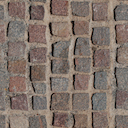
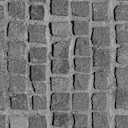
TextureLoader fixed and added

diff --git a/src/component/game/testWorld.js b/src/component/game/testWorld.js
@@ -2,21 +2,23 @@ import * as THREE from 'three';
 import Player from './entities/Player';
 import Box from './entities/Box';
 
-const MARINE_URL = '/assets/marine/marine_anims_core.json';
-
 function world(callback, assets) {
-	let texture = new THREE.TextureLoader().load('/assets/box/wood_texture.jpg');
-	generateBoundary(9).forEach((point) => {
-		let box = new Box(texture);
-		box.setPosition(point);
-		callback(box);
-	})
-	const box1 = new Box(texture);
-	box1.setPosition(new THREE.Vector3(0, -1, 0));
-	const box2 = new Box(texture);
-	box2.setPosition(new THREE.Vector3(0, 1, 0));
-	callback(box1);
-	callback(box2);
+	assets.getTexture('Wood', texture => {
+		const box1 = new Box(texture);
+		box1.setPosition(new THREE.Vector3(0, -1, 0));
+		const box2 = new Box(texture);
+		box2.setPosition(new THREE.Vector3(0, 1, 0));
+		callback(box1);
+		callback(box2);
+	});
+
+	assets.getTexture('Stone', texture => {
+		generateBoundary(9).forEach((point) => {
+			let box = new Box(texture);
+			box.setPosition(point);
+			callback(box);
+		})
+	});
 }
 
 function generateBoundary(length) {
@@ -32,8 +34,7 @@ function generateBoundary(length) {
 }
 
 function player(callback, assets) {
-	//assets.getModel('Marine', model => {
-	new THREE.ObjectLoader().load((MARINE_URL), model => {
+	assets.getModel('Marine', model => {
 		const marine = new Player(model);
 		marine.mesh.scale.set(0.008,0.008,0.008);
 		marine.mesh.rotation.x = 90 * Math.PI / 180;

diff --git a/src/component/game/AssetLoader.js b/src/component/game/AssetLoader.js
@@ -1,5 +1,6 @@
+import * as THREE from 'three';
 
-class AssetLoader() {
+class AssetLoader {
   constructor(config) {
     this.config = config;
     this.loaded = {'textures': {}, 'models': {}};
@@ -9,7 +10,7 @@ class AssetLoader() {
   }
 
   getTexture(texture, callback) {
-    if(this.loaded['textures'].hasOwnProperty(texture) {
+    if(this.loaded['textures'].hasOwnProperty(texture)) {
       callback(this.loaded['textures'][texture]);
     } else {
       this.textureLoader.load(this.config['textures'][texture]['url'],
@@ -23,7 +24,7 @@ class AssetLoader() {
   }
 
   getModel(model, callback) {
-    if(this.loaded['models'].hasOwnProperty(model) {
+    if(this.loaded['models'].hasOwnProperty(model)) {
       callback(this.loaded['models'][model]);
     } else {
       this.objectLoader.load(this.config['models'][model]['url'],
@@ -35,3 +36,5 @@ class AssetLoader() {
     }
   }
 }
+
+export default AssetLoader;

diff --git a/src/component/GameContainer.js b/src/component/GameContainer.js
@@ -4,6 +4,7 @@ import assetConfig from '../config/assets';
 import Controls from './game/Controls';
 import World from './game/World';
 import Scene from './game/Scene';
+import AssetLoader from './game/AssetLoader'
 
 class GameContainer extends Component {
 	constructor(props) {
@@ -24,7 +25,7 @@ class GameContainer extends Component {
 		window.onresize = this.resizeCanvas;
   	this.resizeCanvas();
 
-		//this.assets = new AssetLoader(assetConfig);
+		this.assets = new AssetLoader(assetConfig);
 		this.scene = new Scene(this.canvas);
 		this.world = new World(this.scene, this.controls, this.assets);
 		this.controls = new Controls(this.world, defaultKeyMap);

diff --git a/src/component/game/World.js b/src/component/game/World.js
@@ -16,13 +16,13 @@ class World {
     testWorld.world((entity, assets) => {
       this.entities.push(entity);
       this.scene.add(entity.mesh);
-    });
+    }, assets);
 
     testWorld.player((entity, assets) => {
       this.entities.push(entity);
       this.scene.add(entity.mesh);
       this.player = entity;
-    });
+    }, assets);
   }
 
   onAction(action, stop=false) {
